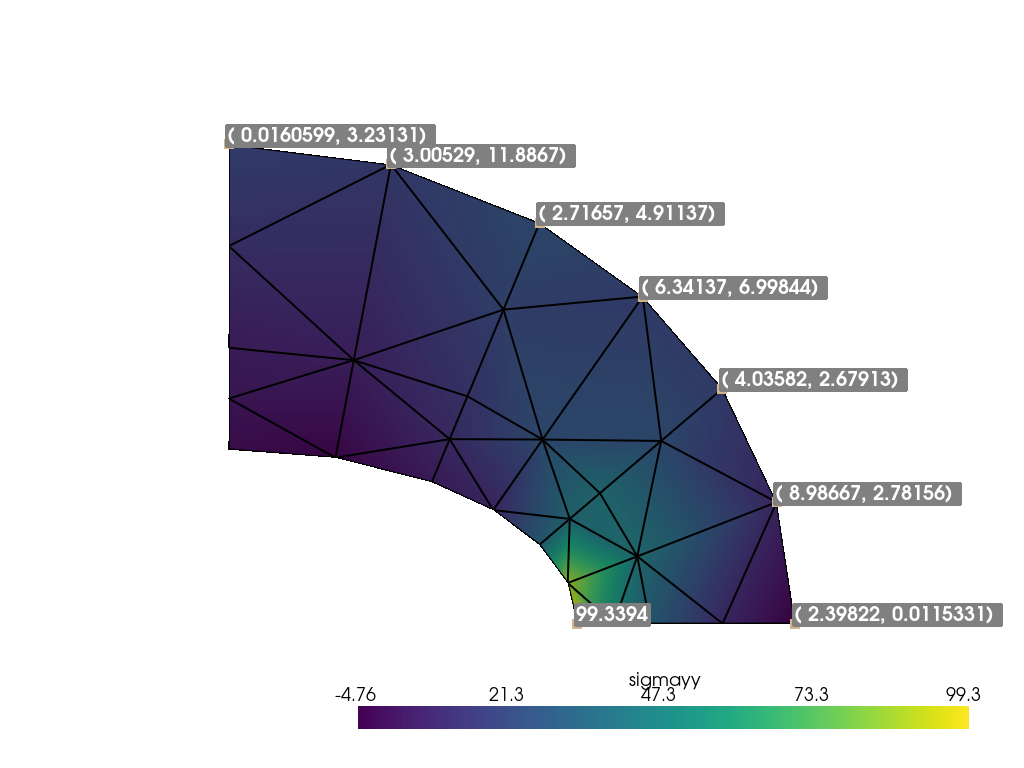
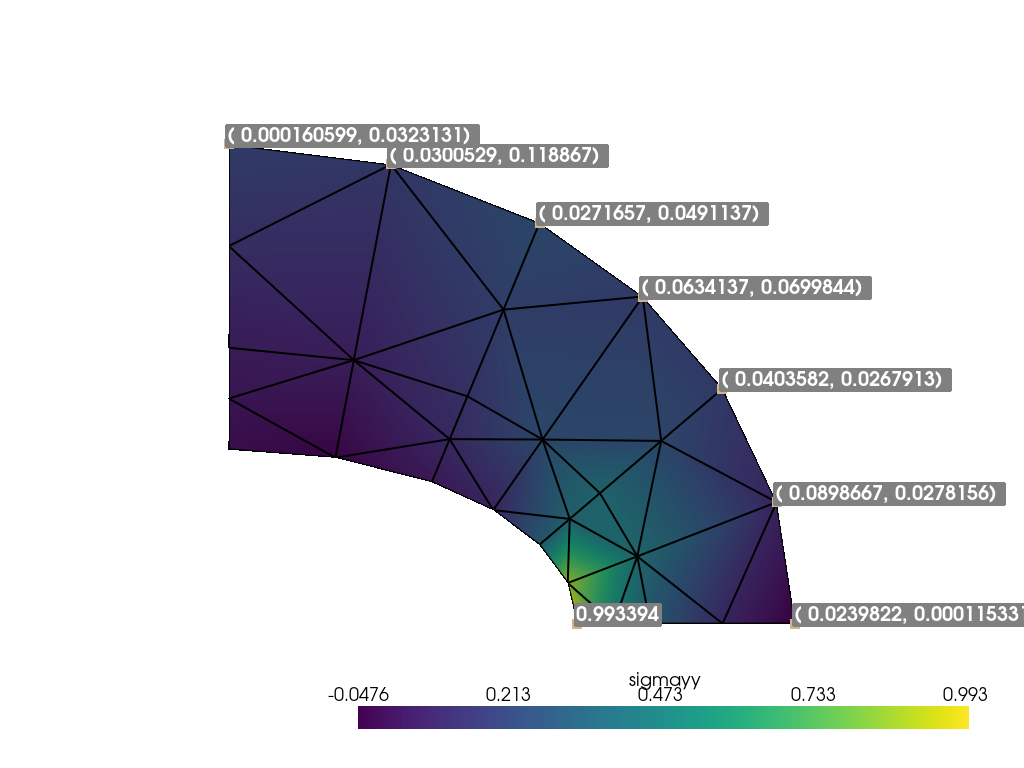
Fix output

diff --git a/benchmarks_data/structure/elliptic_membrane/GetFEM/coarse-quadrilateron-2d.py b/benchmarks_data/structure/elliptic_membrane/GetFEM/coarse-quadrilateron-2d.py
@@ -35,7 +35,7 @@ mfrhs.set_classical_fem(elements_degree)
 
 mim = gf.MeshIm(mesh, elements_degree * 2)
 
-F = mfrhs.eval("[10.0, 0.0, 0.0, 10.0]")  # 10.0 (N/mm2)
+F = mfrhs.eval("[10.0 * 0.01, 0.0, 0.0, 10.0 * 0.01]")  # 10.0 (N/mm2) * 0.01 (mm)
 
 md = gf.Model("real")
 md.add_fem_variable("u", mfu)

diff --git a/benchmarks_data/structure/elliptic_membrane/GetFEM/coarse-quadrilateron-1d.py b/benchmarks_data/structure/elliptic_membrane/GetFEM/coarse-quadrilateron-1d.py
@@ -35,7 +35,7 @@ mfrhs.set_classical_fem(elements_degree)
 
 mim = gf.MeshIm(mesh, elements_degree * 2)
 
-F = mfrhs.eval("[10.0, 0.0, 0.0, 10.0]")
+F = mfrhs.eval("[10.0 * 0.01, 0.0, 0.0, 10.0 * 0.01]")  # 10.0 (N/mm2) * 0.01 (mm)
 
 md = gf.Model("real")
 md.add_fem_variable("u", mfu)

diff --git a/benchmarks_data/structure/elliptic_membrane/GetFEM/coarse-triangle-1d.py b/benchmarks_data/structure/elliptic_membrane/GetFEM/coarse-triangle-1d.py
@@ -35,7 +35,7 @@ mfrhs.set_classical_fem(elements_degree)
 
 mim = gf.MeshIm(mesh, elements_degree * 2)
 
-F = mfrhs.eval("[10.0, 0.0, 0.0, 10.0]")
+F = mfrhs.eval("[10.0 * 0.01, 0.0, 0.0, 10.0 * 0.01]")  # 10.0 (N/mm2) * 0.01 (mm)
 
 md = gf.Model("real")
 md.add_fem_variable("u", mfu)

diff --git a/benchmarks_data/structure/elliptic_membrane/GetFEM/coarse-triangle-2d.py b/benchmarks_data/structure/elliptic_membrane/GetFEM/coarse-triangle-2d.py
@@ -35,7 +35,7 @@ mfrhs.set_classical_fem(elements_degree)
 
 mim = gf.MeshIm(mesh, elements_degree * 2)
 
-F = mfrhs.eval("[10.0, 0.0, 0.0, 10.0]")
+F = mfrhs.eval("[10.0 * 0.01, 0.0, 0.0, 10.0 * 0.01]")  # 10.0 (N/mm2) * 0.01 (mm)
 
 md = gf.Model("real")
 md.add_fem_variable("u", mfu)

diff --git a/benchmarks_data/structure/elliptic_membrane/GetFEM/fine-quadrilateron-1d.py b/benchmarks_data/structure/elliptic_membrane/GetFEM/fine-quadrilateron-1d.py
@@ -35,7 +35,7 @@ mfrhs.set_classical_fem(elements_degree)
 
 mim = gf.MeshIm(mesh, elements_degree * 2)
 
-F = mfrhs.eval("[10.0, 0.0, 0.0, 10.0]")
+F = mfrhs.eval("[10.0 * 0.01, 0.0, 0.0, 10.0 * 0.01]")  # 10.0 (N/mm2) * 0.01 (mm)
 
 md = gf.Model("real")
 md.add_fem_variable("u", mfu)

diff --git a/benchmarks_data/structure/elliptic_membrane/GetFEM/fine-quadrilateron-2d.py b/benchmarks_data/structure/elliptic_membrane/GetFEM/fine-quadrilateron-2d.py
@@ -35,7 +35,7 @@ mfrhs.set_classical_fem(elements_degree)
 
 mim = gf.MeshIm(mesh, elements_degree * 2)
 
-F = mfrhs.eval("[10.0, 0.0, 0.0, 10.0]")
+F = mfrhs.eval("[10.0 * 0.01, 0.0, 0.0, 10.0 * 0.01]")  # 10.0 (N/mm2) * 0.01 (mm)
 
 md = gf.Model("real")
 md.add_fem_variable("u", mfu)

diff --git a/benchmarks_data/structure/elliptic_membrane/GetFEM/fine-triangle-1d.py b/benchmarks_data/structure/elliptic_membrane/GetFEM/fine-triangle-1d.py
@@ -35,7 +35,7 @@ mfrhs.set_classical_fem(elements_degree)
 
 mim = gf.MeshIm(mesh, elements_degree * 2)
 
-F = mfrhs.eval("[10.0, 0.0, 0.0, 10.0]")
+F = mfrhs.eval("[10.0 * 0.01, 0.0, 0.0, 10.0 * 0.01]")  # 10.0 (N/mm2) * 0.01 (mm)
 
 md = gf.Model("real")
 md.add_fem_variable("u", mfu)

diff --git a/benchmarks_data/structure/elliptic_membrane/GetFEM/fine-triangle-2d.py b/benchmarks_data/structure/elliptic_membrane/GetFEM/fine-triangle-2d.py
@@ -35,7 +35,7 @@ mfrhs.set_classical_fem(elements_degree)
 
 mim = gf.MeshIm(mesh, elements_degree * 2)
 
-F = mfrhs.eval("[10.0, 0.0, 0.0, 10.0]")
+F = mfrhs.eval("[10.0 * 0.01, 0.0, 0.0, 10.0 * 0.01]")  # 10.0 (N/mm2) * 0.01 (mm)
 
 md = gf.Model("real")
 md.add_fem_variable("u", mfu)
